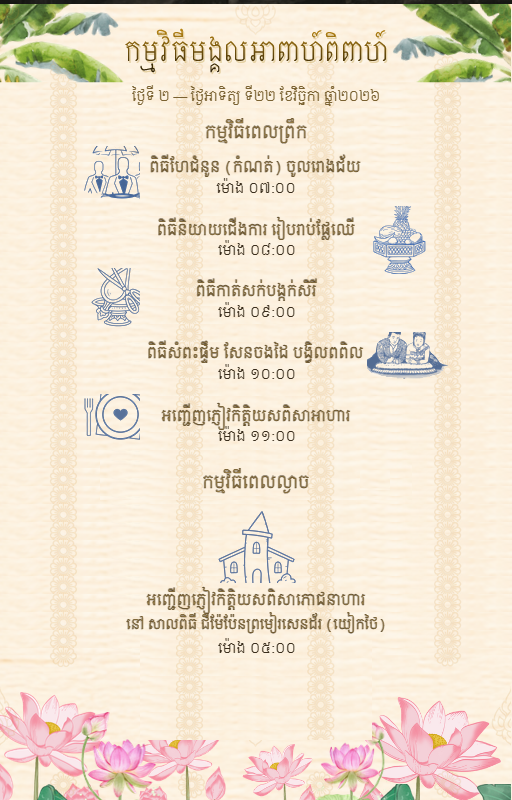
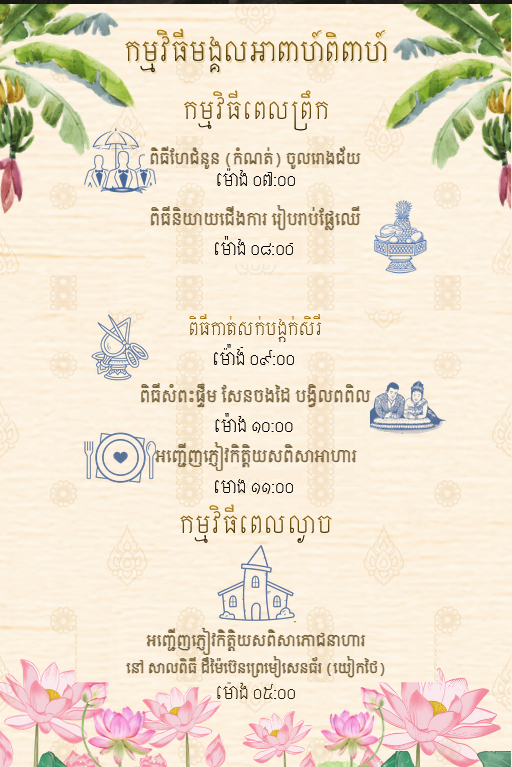
Add files via upload

diff --git a/index.html b/index.html
@@ -40,7 +40,7 @@
 
             <!-- WEDDING TITLE & COUPLE NAMES -->
             <div class="cover-wedding-header">
-                <h2 class="cover-wedding-title">សិរីសួស្តីមង្គលអាពាហ៍ពិពាហ៍</h2>
+                <h2 class="cover-wedding-title">សិរីមង្គលអាពាហ៍ពិពាហ៍</h2>
                 <h1 class="cover-couple-names">សេងហ័រ <span class="cover-heart">❤</span> វិច្ឆិកា</h1>
             </div>
         </div>
@@ -417,7 +417,7 @@
                                 <div class="timeline-card">
                                     <span class="timeline-time-badge">វេលាម៉ោង ០៥:០០ នាទីល្ងាច</span>
                                     <h4 class="timeline-title">អញ្ជើញភ្ញៀវកិត្តិយសពិសាភោជនាហារ</h4>
-                                    <p class="timeline-desc">ទទួលបដិសណ្ឋារកិច្ច និងពិសាភោជនាហារ នៅសាលពិធី ជីម៉ែប៉ែនព្រមៀរសេនដ័រ (យៀកថៃ) ក្រុងកំពង់ចាម</p>
+                                    <p class="timeline-desc">ទទួលបដិសណ្ឋារកិច្ច និងពិសាភោជនាហារ នៅសាលពិធី ដឹម៉ៃប៊េនព្រេមៀសេនធ័រ (យៀកថៃ) ក្រុងកំពង់ចាម</p>
                                 </div>
                             </div>
                         </div>
@@ -432,7 +432,7 @@
                     <button id="btnPosterModalClose" class="poster-modal-close" type="button" aria-label="Close">&times;</button>
                     <!-- Modal Day Switcher -->
                     <div class="modal-day-switch">
-                        <button id="modalBtnDay1" class="modal-day-pill active" type="button" data-slide="0">📅 ថ្ងៃទី ១ (២១ វិច្ឆិកា)</button>
+                        <button id="modalBtnDay1" class="modal-day-pill active" type="button" data-slide="0">📅 ថ្ងៃទី ១ (២០ វិច្ឆិកា)</button>
                         <button id="modalBtnDay2" class="modal-day-pill" type="button" data-slide="1">💍 ថ្ងៃទី ២ (២២ វិច្ឆិកា)</button>
                     </div>
                     <img id="posterModalImg" src="assets/images/schedule-poster-day1.png" alt="កម្មវិធីមង្គលអាពាហ៍ពិពាហ៍ ផ្ទាំងធំ" class="poster-modal-image">
@@ -466,7 +466,7 @@
                     </svg>
                 </div>
 
-                <h3 id="venueNameText" class="venue-name">សណ្ឋាគារភ្នំប្រុស (អគារ B)</h3>
+                <h3 id="venueNameText" class="venue-name">សាលពិធី ដឹម៉ៃប៊េនព្រេមៀសេនធ័រ (យៀកថៃ)</h3>
                 <p id="venueAddressText" class="venue-address">ក្រុងកំពង់ចាម ខេត្តកំពង់ចាម</p>
 
                 <!-- Embedded Map Frame -->
@@ -526,67 +526,67 @@
                 <!-- Canva-Style Editorial Staggered Photo Grid -->
                 <div class="editorial-gallery-grid" id="editorialGalleryGrid">
                     <!-- Row 1: Full-width Landscape Banner -->
-                    <div class="gallery-item landscape" data-index="1">
+                    <div class="gallery-item landscape" data-index="0">
                         <img src="assets/images/gallery-2.jpg" alt="Wedding Photo 2" loading="lazy">
                         <div class="gallery-overlay-hint"><svg viewBox="0 0 24 24" fill="none" stroke="currentColor" stroke-width="2"><circle cx="11" cy="11" r="8"></circle><line x1="21" y1="21" x2="16.65" y2="16.65"></line></svg></div>
                     </div>
 
-                    <!-- Row 2: Pair of Vertical Portraits -->
-                    <div class="gallery-item portrait" data-index="0">
+                    <!-- Row 2: Pair of Vertical Portraits (Sunset Romance) -->
+                    <div class="gallery-item portrait" data-index="1">
                         <img src="assets/images/gallery-1.jpg" alt="Wedding Photo 1" loading="lazy">
                         <div class="gallery-overlay-hint"><svg viewBox="0 0 24 24" fill="none" stroke="currentColor" stroke-width="2"><circle cx="11" cy="11" r="8"></circle><line x1="21" y1="21" x2="16.65" y2="16.65"></line></svg></div>
                     </div>
-                    <div class="gallery-item portrait" data-index="3">
-                        <img src="assets/images/gallery-4.jpg" alt="Wedding Photo 4" loading="lazy">
+                    <div class="gallery-item portrait" data-index="2">
+                        <img src="assets/images/gallery-14.jpg" alt="Wedding Photo 14" loading="lazy">
                         <div class="gallery-overlay-hint"><svg viewBox="0 0 24 24" fill="none" stroke="currentColor" stroke-width="2"><circle cx="11" cy="11" r="8"></circle><line x1="21" y1="21" x2="16.65" y2="16.65"></line></svg></div>
                     </div>
 
                     <!-- Row 3: Full-width Landscape Banner -->
-                    <div class="gallery-item landscape" data-index="2">
+                    <div class="gallery-item landscape" data-index="3">
                         <img src="assets/images/gallery-3.jpg" alt="Wedding Photo 3" loading="lazy">
                         <div class="gallery-overlay-hint"><svg viewBox="0 0 24 24" fill="none" stroke="currentColor" stroke-width="2"><circle cx="11" cy="11" r="8"></circle><line x1="21" y1="21" x2="16.65" y2="16.65"></line></svg></div>
                     </div>
 
-                    <!-- Row 4: Pair of Vertical Portraits -->
-                    <div class="gallery-item portrait" data-index="5">
+                    <!-- Row 4: Pair of Vertical Portraits (Studio) -->
+                    <div class="gallery-item portrait" data-index="4">
                         <img src="assets/images/gallery-6.jpg" alt="Wedding Photo 6" loading="lazy">
                         <div class="gallery-overlay-hint"><svg viewBox="0 0 24 24" fill="none" stroke="currentColor" stroke-width="2"><circle cx="11" cy="11" r="8"></circle><line x1="21" y1="21" x2="16.65" y2="16.65"></line></svg></div>
                     </div>
-                    <div class="gallery-item portrait" data-index="6">
+                    <div class="gallery-item portrait" data-index="5">
                         <img src="assets/images/gallery-7.jpg" alt="Wedding Photo 7" loading="lazy">
                         <div class="gallery-overlay-hint"><svg viewBox="0 0 24 24" fill="none" stroke="currentColor" stroke-width="2"><circle cx="11" cy="11" r="8"></circle><line x1="21" y1="21" x2="16.65" y2="16.65"></line></svg></div>
                     </div>
 
                     <!-- Row 5: Full-width Landscape Banner -->
-                    <div class="gallery-item landscape" data-index="4">
+                    <div class="gallery-item landscape" data-index="6">
                         <img src="assets/images/gallery-5.jpg" alt="Wedding Photo 5" loading="lazy">
                         <div class="gallery-overlay-hint"><svg viewBox="0 0 24 24" fill="none" stroke="currentColor" stroke-width="2"><circle cx="11" cy="11" r="8"></circle><line x1="21" y1="21" x2="16.65" y2="16.65"></line></svg></div>
                     </div>
 
                     <!-- Extra Items (Smoothly toggleable) -->
-                    <!-- Row 6: Pair of Vertical Portraits -->
+                    <!-- Row 6: Pair of Vertical Portraits (Studio) -->
                     <div class="gallery-item portrait gallery-extra-item" data-index="7">
-                        <img src="assets/images/gallery-8.jpg" alt="Wedding Photo 8" loading="lazy">
+                        <img src="assets/images/gallery-21.jpg" alt="Wedding Photo 21" loading="lazy">
                         <div class="gallery-overlay-hint"><svg viewBox="0 0 24 24" fill="none" stroke="currentColor" stroke-width="2"><circle cx="11" cy="11" r="8"></circle><line x1="21" y1="21" x2="16.65" y2="16.65"></line></svg></div>
                     </div>
-                    <div class="gallery-item portrait gallery-extra-item" data-index="9">
-                        <img src="assets/images/gallery-10.jpg" alt="Wedding Photo 10" loading="lazy">
+                    <div class="gallery-item portrait gallery-extra-item" data-index="8">
+                        <img src="assets/images/gallery-22.jpg" alt="Wedding Photo 22" loading="lazy">
                         <div class="gallery-overlay-hint"><svg viewBox="0 0 24 24" fill="none" stroke="currentColor" stroke-width="2"><circle cx="11" cy="11" r="8"></circle><line x1="21" y1="21" x2="16.65" y2="16.65"></line></svg></div>
                     </div>
 
-                    <!-- Row 7: Full-width Landscape Banner -->
-                    <div class="gallery-item landscape gallery-extra-item" data-index="8">
+                    <!-- Row 7: Full-width Landscape Banner (Angkor Boat) -->
+                    <div class="gallery-item landscape gallery-extra-item" data-index="9">
                         <img src="assets/images/gallery-9.jpg" alt="Wedding Photo 9" loading="lazy">
                         <div class="gallery-overlay-hint"><svg viewBox="0 0 24 24" fill="none" stroke="currentColor" stroke-width="2"><circle cx="11" cy="11" r="8"></circle><line x1="21" y1="21" x2="16.65" y2="16.65"></line></svg></div>
                     </div>
 
-                    <!-- Row 8: Pair of Vertical Portraits -->
+                    <!-- Row 8: Pair of Vertical Portraits (Angkor & Nature) -->
                     <div class="gallery-item portrait gallery-extra-item" data-index="10">
-                        <img src="assets/images/gallery-11.jpg" alt="Wedding Photo 11" loading="lazy">
+                        <img src="assets/images/gallery-8.jpg" alt="Wedding Photo 8" loading="lazy">
                         <div class="gallery-overlay-hint"><svg viewBox="0 0 24 24" fill="none" stroke="currentColor" stroke-width="2"><circle cx="11" cy="11" r="8"></circle><line x1="21" y1="21" x2="16.65" y2="16.65"></line></svg></div>
                     </div>
                     <div class="gallery-item portrait gallery-extra-item" data-index="11">
-                        <img src="assets/images/gallery-12.jpg" alt="Wedding Photo 12" loading="lazy">
+                        <img src="assets/images/gallery-10.jpg" alt="Wedding Photo 10" loading="lazy">
                         <div class="gallery-overlay-hint"><svg viewBox="0 0 24 24" fill="none" stroke="currentColor" stroke-width="2"><circle cx="11" cy="11" r="8"></circle><line x1="21" y1="21" x2="16.65" y2="16.65"></line></svg></div>
                     </div>
 
@@ -596,17 +596,17 @@
                         <div class="gallery-overlay-hint"><svg viewBox="0 0 24 24" fill="none" stroke="currentColor" stroke-width="2"><circle cx="11" cy="11" r="8"></circle><line x1="21" y1="21" x2="16.65" y2="16.65"></line></svg></div>
                     </div>
 
-                    <!-- Row 10: Pair of Vertical Portraits -->
+                    <!-- Row 10: Pair of Vertical Portraits (Garden) -->
                     <div class="gallery-item portrait gallery-extra-item" data-index="13">
-                        <img src="assets/images/gallery-14.jpg" alt="Wedding Photo 14" loading="lazy">
+                        <img src="assets/images/gallery-11.jpg" alt="Wedding Photo 11" loading="lazy">
                         <div class="gallery-overlay-hint"><svg viewBox="0 0 24 24" fill="none" stroke="currentColor" stroke-width="2"><circle cx="11" cy="11" r="8"></circle><line x1="21" y1="21" x2="16.65" y2="16.65"></line></svg></div>
                     </div>
                     <div class="gallery-item portrait gallery-extra-item" data-index="14">
-                        <img src="assets/images/gallery-15.jpg" alt="Wedding Photo 15" loading="lazy">
+                        <img src="assets/images/gallery-12.jpg" alt="Wedding Photo 12" loading="lazy">
                         <div class="gallery-overlay-hint"><svg viewBox="0 0 24 24" fill="none" stroke="currentColor" stroke-width="2"><circle cx="11" cy="11" r="8"></circle><line x1="21" y1="21" x2="16.65" y2="16.65"></line></svg></div>
                     </div>
 
-                    <!-- Row 11: Pair of Vertical Portraits -->
+                    <!-- Row 11: Pair of Vertical Portraits (Chinese Traditional) -->
                     <div class="gallery-item portrait gallery-extra-item" data-index="15">
                         <img src="assets/images/gallery-16.jpg" alt="Wedding Photo 16" loading="lazy">
                         <div class="gallery-overlay-hint"><svg viewBox="0 0 24 24" fill="none" stroke="currentColor" stroke-width="2"><circle cx="11" cy="11" r="8"></circle><line x1="21" y1="21" x2="16.65" y2="16.65"></line></svg></div>
@@ -616,17 +616,17 @@
                         <div class="gallery-overlay-hint"><svg viewBox="0 0 24 24" fill="none" stroke="currentColor" stroke-width="2"><circle cx="11" cy="11" r="8"></circle><line x1="21" y1="21" x2="16.65" y2="16.65"></line></svg></div>
                     </div>
 
-                    <!-- Row 12: Pair of Vertical Portraits -->
+                    <!-- Row 12: Pair of Vertical Portraits (Chinese Traditional & Sunglasses) -->
                     <div class="gallery-item portrait gallery-extra-item" data-index="17">
                         <img src="assets/images/gallery-18.jpg" alt="Wedding Photo 18" loading="lazy">
                         <div class="gallery-overlay-hint"><svg viewBox="0 0 24 24" fill="none" stroke="currentColor" stroke-width="2"><circle cx="11" cy="11" r="8"></circle><line x1="21" y1="21" x2="16.65" y2="16.65"></line></svg></div>
                     </div>
                     <div class="gallery-item portrait gallery-extra-item" data-index="18">
-                        <img src="assets/images/gallery-19.jpg" alt="Wedding Photo 19" loading="lazy">
+                        <img src="assets/images/gallery-23.jpg" alt="Wedding Photo 23" loading="lazy">
                         <div class="gallery-overlay-hint"><svg viewBox="0 0 24 24" fill="none" stroke="currentColor" stroke-width="2"><circle cx="11" cy="11" r="8"></circle><line x1="21" y1="21" x2="16.65" y2="16.65"></line></svg></div>
                     </div>
 
-                    <!-- Row 13: Centerpiece Vertical Portrait -->
+                    <!-- Row 13: Centerpiece Vertical Portrait Finale (Ang Pao) -->
                     <div class="gallery-item portrait gallery-extra-item gallery-center-portrait" data-index="19">
                         <img src="assets/images/gallery-20.jpg" alt="Wedding Photo 20" loading="lazy">
                         <div class="gallery-overlay-hint"><svg viewBox="0 0 24 24" fill="none" stroke="currentColor" stroke-width="2"><circle cx="11" cy="11" r="8"></circle><line x1="21" y1="21" x2="16.65" y2="16.65"></line></svg></div>

diff --git a/js/config.js b/js/config.js
@@ -52,7 +52,7 @@ const WEDDING_CONFIG = {
             { time: "០៩:០០ នាទីព្រឹក", title: "ពិធីកាត់សក់បង្កក់សិរី", desc: "ពិធីកាត់សក់ សិតសក់ និងប្រោះព្រំសិរីសួស្តីដល់កូនកំលោះកូនក្រមុំ" },
             { time: "១០:០០ នាទីព្រឹក", title: "ពិធីសំពះផ្ទឹម សែនចងដៃ បង្វិលពពិល", desc: "ពិធីក្រាបសំពះផ្ទឹម សែនចងដៃ និងបង្វិលពពិលប្រសិទ្ធពរជ័យ" },
             { time: "១១:០០ ថ្ងៃត្រង់", title: "អញ្ជើញភ្ញៀវកិត្តិយសពិសាអាហារ", desc: "អញ្ជើញភ្ញៀវកិត្តិយស និងញាតិមិត្តរួមពិសាអាហារថ្ងៃត្រង់" },
-            { time: "០៥:០០ នាទីល្ងាច", title: "អញ្ជើញភ្ញៀវកិត្តិយសពិសាភោជនាហារ", desc: "ទទួលបដិសណ្ឋារកិច្ច និងពិសាភោជនាហារ នៅសាលពិធី ជីម៉ែប៉ែនព្រមៀរសេនដ័រ (យៀកថៃ) ក្រុងកំពង់ចាម" }
+            { time: "០៥:០០ នាទីល្ងាច", title: "អញ្ជើញភ្ញៀវកិត្តិយសពិសាភោជនាហារ", desc: "ទទួលបដិសណ្ឋារកិច្ច និងពិសាភោជនាហារ នៅសាលពិធី ដឹម៉ៃប៊េនព្រេមៀសេនធ័រ (យៀកថៃ) ក្រុងកំពង់ចាម" }
         ],
         // Aliases for compatibility
         get morning() { return this.day1; },
@@ -61,7 +61,7 @@ const WEDDING_CONFIG = {
     
     // ទីតាំង / Venue & Location
     venue: {
-        name: "សាលពិធី ជីម៉ែប៉ែនព្រមៀរសេនដ័រ (យៀកថៃ)",
+        name: "សាលពិធី ដឹម៉ៃប៊េនព្រេមៀសេនធ័រ (យៀកថៃ)",
         address: "ក្រុងកំពង់ចាម ខេត្តកំពង់ចាម",
         googleMapsUrl: "https://maps.app.goo.gl/wcXT9QLLvdLVvjgZ7",
         // Embedded map query for Kampong Cham Phnom Pros Hotel
@@ -89,25 +89,25 @@ const WEDDING_CONFIG = {
     // វិចិត្រសាលរូបថត / Photo Gallery
     media: {
         galleryImages: [
-            { src: "assets/images/gallery-1.jpg", caption: "សេចក្តីស្រលាញ់ដ៏កក់ក្តៅ" },
             { src: "assets/images/gallery-2.jpg", caption: "ស្នាមញញឹមនៃថ្ងៃអនាគត" },
+            { src: "assets/images/gallery-1.jpg", caption: "សេចក្តីស្រលាញ់ដ៏កក់ក្តៅ" },
+            { src: "assets/images/gallery-14.jpg", caption: "ពន្លឺថ្ងៃលិចដ៏រ៉ូមែនទិក" },
             { src: "assets/images/gallery-3.jpg", caption: "ដៃកាន់ដៃឆ្ពោះទៅមុខ" },
-            { src: "assets/images/gallery-4.jpg", caption: "គ្រាដ៏ផ្អែមល្ហែម" },
-            { src: "assets/images/gallery-5.jpg", caption: "ដំណើរជីវិតថ្មីចាប់ផ្តើម" },
             { src: "assets/images/gallery-6.jpg", caption: "សេចក្តីសុខក្នុងចិត្ត" },
             { src: "assets/images/gallery-7.jpg", caption: "បេះដូងតែមួយ" },
-            { src: "assets/images/gallery-8.jpg", caption: "អនុស្សាវរីយ៍ប្រាសាទបុរាណ" },
+            { src: "assets/images/gallery-5.jpg", caption: "ដំណើរជីវិតថ្មីចាប់ផ្តើម" },
+            { src: "assets/images/gallery-21.jpg", caption: "សេចក្តីសន្យាដ៏ពិសិដ្ឋ" },
+            { src: "assets/images/gallery-22.jpg", caption: "ផ្កាស្នេហ៍រីកស្រស់" },
             { src: "assets/images/gallery-9.jpg", caption: "ជិះទូកកម្សាន្តនាទឹកដីអង្គរ" },
+            { src: "assets/images/gallery-8.jpg", caption: "អនុស្សាវរីយ៍ប្រាសាទបុរាណ" },
             { src: "assets/images/gallery-10.jpg", caption: "ស្នាមញញឹមសុភមង្គល" },
+            { src: "assets/images/gallery-13.jpg", caption: "ពេលវេលាដ៏មានអត្ថន័យ" },
             { src: "assets/images/gallery-11.jpg", caption: "សេចក្តីស្រឡាញ់ដ៏ជ្រាលជ្រៅ" },
             { src: "assets/images/gallery-12.jpg", caption: "ភាពស្រស់ស្រាយនៃក្តីស្រឡាញ់" },
-            { src: "assets/images/gallery-13.jpg", caption: "ពេលវេលាដ៏មានអត្ថន័យ" },
-            { src: "assets/images/gallery-14.jpg", caption: "ពន្លឺថ្ងៃលិចដ៏រ៉ូមែនទិក" },
-            { src: "assets/images/gallery-15.jpg", caption: "ចំណងនិស្ស័យអស់មួយជីវិត" },
             { src: "assets/images/gallery-16.jpg", caption: "គ្រាដ៏កក់ក្តៅ" },
             { src: "assets/images/gallery-17.jpg", caption: "សម្រស់កូនក្រមុំ" },
             { src: "assets/images/gallery-18.jpg", caption: "គូព្រេងនិស្ស័យ" },
-            { src: "assets/images/gallery-19.jpg", caption: "ស្នេហ៍ផ្អែមល្ហែម" },
+            { src: "assets/images/gallery-23.jpg", caption: "ស្នាមញញឹម និងភាពស្រស់ស្រាយ" },
             { src: "assets/images/gallery-20.jpg", caption: "អាំងប៉ាវសុភមង្គល" }
         ]
     },

diff --git a/css/style.css b/css/style.css
@@ -1175,10 +1175,10 @@ section {
 }
 
 .royal-parent-name {
-    font-family: 'Kantumruy Pro', var(--font-khmer-body);
-    font-weight: 600;
-    font-size: 17px;
-    line-height: 1.85;
+    font-family: var(--font-khmer-moulpali), 'Moulpali', cursive, serif;
+    font-weight: normal;
+    font-size: 16px;
+    line-height: 1.95;
     color: #fff2ad;
     text-shadow: 0 1px 2px #000000, 0 2px 5px rgba(0, 0, 0, 0.95), 0 0 12px rgba(0, 0, 0, 0.85);
     letter-spacing: 0.3px;
@@ -1197,9 +1197,10 @@ section {
 }
 
 .royal-invitation-lead {
-    font-family: var(--font-khmer-moul);
+    font-family: var(--font-khmer-moulpali), 'Moulpali', cursive, serif;
+    font-weight: normal;
     font-size: 17px;
-    line-height: 1.65;
+    line-height: 1.7;
     color: #fff2ad;
     background: linear-gradient(180deg, #ffffff 0%, #fae07a 40%, #e0ab32 100%);
     -webkit-background-clip: text;
@@ -1210,13 +1211,13 @@ section {
 }
 
 .royal-invitation-body {
-    font-family: 'Kantumruy Pro', var(--font-khmer-body);
-    font-size: 14.5px;
-    line-height: 2.15;
-    color: #fffdf5;
+    font-family: var(--font-khmer-moulpali), 'Moulpali', cursive, serif;
+    font-weight: normal;
+    font-size: 14px;
+    line-height: 2.25;
+    color: #fae28c;
     text-shadow: 0 1px 2px #000000, 0 2px 6px rgba(0, 0, 0, 0.95), 0 0 12px rgba(0, 0, 0, 0.9);
     margin: 0 auto;
-    font-weight: 500;
 }
 
 /* Couple Row - Moulpali Font in Embossed Gold */
@@ -1240,8 +1241,8 @@ section {
 
 .royal-role-tag {
     display: block;
-    font-family: 'Kantumruy Pro', var(--font-khmer-body);
-    font-weight: 600;
+    font-family: var(--font-khmer-moulpali), 'Moulpali', cursive, serif;
+    font-weight: normal;
     font-size: 14px;
     color: #ffd875;
     text-shadow: 0 1px 2px #000000, 0 2px 4px rgba(0, 0, 0, 0.95);
@@ -2250,7 +2251,6 @@ section {
 .gallery-item img[src*="gallery-1.jpg"] { object-position: center 14%; }
 .gallery-item img[src*="gallery-2.jpg"] { object-position: center 25%; }
 .gallery-item img[src*="gallery-3.jpg"] { object-position: center 58%; }
-.gallery-item img[src*="gallery-4.jpg"] { object-position: center 15%; }
 .gallery-item img[src*="gallery-5.jpg"] { object-position: 45% 65%; }
 .gallery-item img[src*="gallery-6.jpg"] { object-position: center 16%; }
 .gallery-item img[src*="gallery-7.jpg"] { object-position: center 15%; }
@@ -2261,12 +2261,13 @@ section {
 .gallery-item img[src*="gallery-12.jpg"] { object-position: center 10%; }
 .gallery-item img[src*="gallery-13.jpg"] { object-position: center 20%; }
 .gallery-item img[src*="gallery-14.jpg"] { object-position: center 3%; }
-.gallery-item img[src*="gallery-15.jpg"] { object-position: center 6%; }
 .gallery-item img[src*="gallery-16.jpg"] { object-position: center 4%; }
 .gallery-item img[src*="gallery-17.jpg"] { object-position: center 5%; }
 .gallery-item img[src*="gallery-18.jpg"] { object-position: center 3%; }
-.gallery-item img[src*="gallery-19.jpg"] { object-position: 36% 6%; }
 .gallery-item img[src*="gallery-20.jpg"] { object-position: center 4%; }
+.gallery-item img[src*="gallery-21.jpg"] { object-position: center 10%; }
+.gallery-item img[src*="gallery-22.jpg"] { object-position: center 12%; }
+.gallery-item img[src*="gallery-23.jpg"] { object-position: center 8%; }
 
 /* Zoom indicator */
 .gallery-overlay-hint {

diff --git a/edit.html b/edit.html
@@ -246,7 +246,7 @@
                 <h3>📍 ទីតាំងប្រារព្ធពិធី</h3>
                 <div class="form-group">
                     <label>ឈ្មោះទីតាំង ៖</label>
-                    <input type="text" id="venueName" class="form-control" value="សាលពិធី ដឹម៉ៃប៊េនព្រេមៀសេនធ័រ ក្រុងកំពង់ចាម">
+                    <input type="text" id="venueName" class="form-control" value="សាលពិធី ដឹម៉ៃប៊េនព្រេមៀសេនធ័រ (យៀកថៃ)">
                 </div>
                 <div class="form-group">
                     <label>អាសយដ្ឋាន ៖</label>

diff --git a/js/main.js b/js/main.js
@@ -1,4 +1,4 @@
-/**
+/**
  * Main Application Logic for Wedding E-Invitation
  * Ratana & Naza Wedding
  */
@@ -75,6 +75,8 @@ function renderDynamicContent() {
     // Title & Hero & Royal Ceremony
     const heroTitle = document.getElementById('heroCeremonyTitle');
     if (heroTitle && cfg.weddingTitle) heroTitle.textContent = cfg.weddingTitle;
+    const coverTitle = document.querySelector('.cover-wedding-title');
+    if (coverTitle && cfg.weddingTitle) coverTitle.textContent = cfg.weddingTitle;
     const royalTitle = document.getElementById('royalCeremonyTitle');
     if (royalTitle && cfg.weddingTitle) royalTitle.textContent = cfg.weddingTitle;
     

diff --git a/README.md b/README.md
@@ -14,7 +14,7 @@
 4. **កត់ត្រាក្នុងប្រតិទិន (Save the Date):** មានប៊ូតុងចុចបន្ថែមព្រឹត្តិការណ៍ទៅក្នុង Google Calendar ភ្លាមៗដោយចុចតែម្តង។
 5. **ព័ត៌មានមាតាបិតា & សាមីខ្លួន:** រូបថតកូនកំលោះ-កូនក្រមុំ និងឈ្មោះឪពុកម្តាយទាំងសងខាង (ម៉េង សេងហ័រ & កង ច័ន្ទវិច្ឆិកា)។
 6. **កម្មវិធីមង្គលការ (Wedding Schedule):** បែងចែកជា ២ ផ្ទាំង (Tab) កម្មវិធីពេលព្រឹក និងកម្មវិធីពេលល្ងាច ជាមួយនឹង Timeline យ៉ាងច្បាស់លាស់។
-7. **ទីតាំង & ផែនទី (Google Maps):** បង្ហាញទីតាំងសាលពិធី ដឹម៉ៃប៊េនព្រេមៀសេនធ័រ ក្រុងកំពង់ចាម ជាមួយផែនទី embedded និងប៊ូតុងចម្លងទីតាំង / បើក Google Maps app។
+7. **ទីតាំង & ផែនទី (Google Maps):** បង្ហាញទីតាំងសាលពិធី ដឹម៉ៃប៊េនព្រេមៀសេនធ័រ (យៀកថៃ) ក្រុងកំពង់ចាម ជាមួយផែនទី embedded និងប៊ូតុងចម្លងទីតាំង / បើក Google Maps app។
 8. **វិចិត្រសាលរូបថត (Photo Gallery):** Photo Grid ដ៏ស្រស់ស្អាត ដែលអាចចុចពង្រីកមើលរូបថតធំ (Lightbox) បានយ៉ាងងាយស្រួល។
 9. **ផ្ញើចំណងដៃ (Wedding Gift / KHQR):** កាតធនាគារ ABA / KHQR ជាមួយឈ្មោះគណនី KORNG Chanvicheka, លេខគណនី `010 345 664`, រូប QR Code, និងប៊ូតុង "ចម្លងលេខគណនី"។
 10. **សៀវភៅជូនពរ (Guestbook / Wishes):** ភ្ញៀវអាចសរសេរពាក្យជូនពរ និងជ្រើសរើសពាក្យជូនពររហ័ស (Quick chips) ហើយសារនឹងរក្សាទុកក្នុង `localStorage` ភ្លាមៗ។
